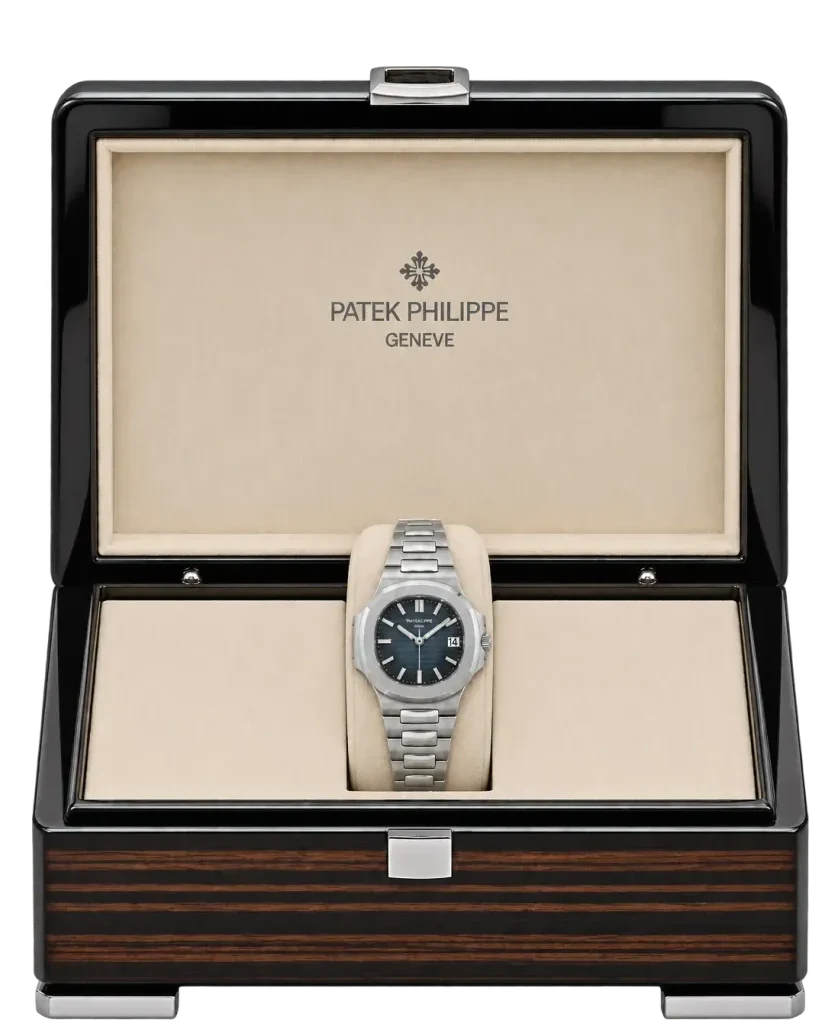
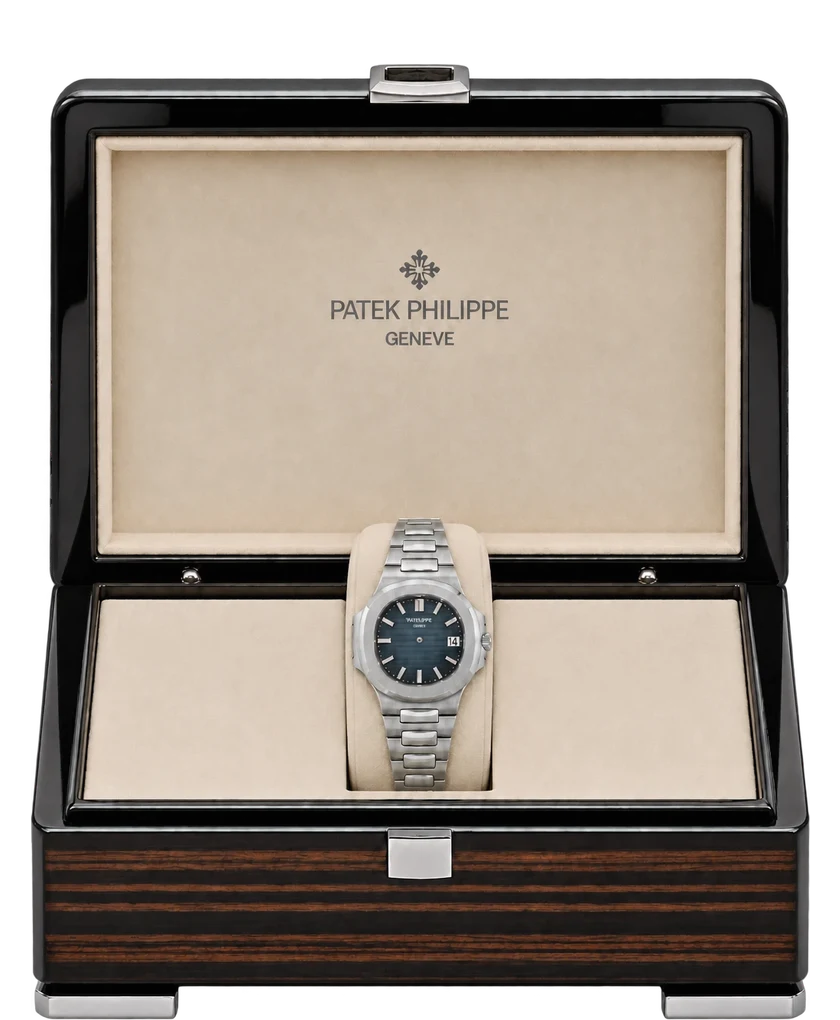
Vetrina: il Patek Nautilus con le lancette che segnano l'ora
Foto del cofanetto senza lancette (sfondo pulito con la sagoma dell'originale),
alla stessa scala di prima; lancette a bastone del Nautilus disegnate sopra.

Claude-Session: https://claude.ai/code/session_01NCWZ2EgAfWjoZpzfAus64N

diff --git a/src/components/LiveHands.tsx b/src/components/LiveHands.tsx
@@ -8,7 +8,7 @@ import { useEffect, useRef } from "react";
  * al centro, a mezzogiorno); altrimenti sono disegnate. I secondi scattano come il calibro vero
  * (8 volte al secondo per i Rolex a 28.800 alternanze).
  */
-export type HandStyle = "submariner";
+export type HandStyle = "submariner" | "nautilus";
 export type HandSprites = { ore: string; minuti: string };
 
 const STEEL = "url(#lh-steel)";
@@ -28,6 +28,22 @@ function SubmarinerDrawn({ hour, minute }: { hour: React.Ref<SVGGElement>; minut
       <g ref={minute} data-hand="m">
         <path d="M-0.04 0.06 L-0.045 -0.6 L0 -0.8 L0.045 -0.6 L0.04 0.06 Z" fill={STEEL} />
         <path d="M-0.022 -0.12 L-0.026 -0.6 L0 -0.72 L0.026 -0.6 L0.022 -0.12 Z" fill={LUME} />
+      </g>
+    </>
+  );
+}
+
+/** Patek Philippe Nautilus: ore e minuti a bastone in oro bianco con il luminescente */
+function NautilusDrawn({ hour, minute }: { hour: React.Ref<SVGGElement>; minute: React.Ref<SVGGElement> }) {
+  return (
+    <>
+      <g ref={hour} data-hand="h">
+        <path d="M-0.04 0.05 L-0.04 -0.53 L0 -0.585 L0.04 -0.53 L0.04 0.05 Z" fill={STEEL} />
+        <path d="M-0.02 -0.14 L-0.02 -0.52 L0 -0.55 L0.02 -0.52 L0.02 -0.14 Z" fill={LUME} />
+      </g>
+      <g ref={minute} data-hand="m">
+        <path d="M-0.034 0.05 L-0.034 -0.79 L0 -0.84 L0.034 -0.79 L0.034 0.05 Z" fill={STEEL} />
+        <path d="M-0.017 -0.16 L-0.017 -0.78 L0 -0.81 L0.017 -0.78 L0.017 -0.16 Z" fill={LUME} />
       </g>
     </>
   );
@@ -84,12 +100,21 @@ export default function LiveHands({ style, run, beats = 8, sprites }: { style: H
         </defs>
         <g style={{ filter: "drop-shadow(0.02px 0.04px 0.025px rgba(0,0,0,0.55))" }}>
           {!sprites && style === "submariner" && <SubmarinerDrawn hour={hour} minute={minute} />}
-          {/* secondi: sottile, con il punto luminoso e il contrappeso */}
-          <g ref={second} data-hand="s">
-            <rect x={-0.007} y={-0.9} width={0.014} height={1.12} fill={STEEL} />
-            <circle cy={-0.6} r={0.048} fill={LUME} stroke="#d9dde1" strokeWidth={0.016} />
-            <rect x={-0.016} y={0.12} width={0.032} height={0.12} rx={0.01} fill={STEEL} />
-          </g>
+          {!sprites && style === "nautilus" && <NautilusDrawn hour={hour} minute={minute} />}
+          {style === "nautilus" ? (
+            // secondi del Nautilus: asta sottile con la punta luminescente e il contrappeso corto
+            <g ref={second} data-hand="s">
+              <rect x={-0.006} y={-0.94} width={0.012} height={1.2} fill={STEEL} />
+              <rect x={-0.012} y={-0.9} width={0.024} height={0.14} rx={0.006} fill={LUME} />
+            </g>
+          ) : (
+            // secondi del Submariner: sottile, con il punto luminoso e il contrappeso
+            <g ref={second} data-hand="s">
+              <rect x={-0.007} y={-0.9} width={0.014} height={1.12} fill={STEEL} />
+              <circle cy={-0.6} r={0.048} fill={LUME} stroke="#d9dde1" strokeWidth={0.016} />
+              <rect x={-0.016} y={0.12} width={0.032} height={0.12} rx={0.01} fill={STEEL} />
+            </g>
+          )}
           {/* perno: con le lancette vere resta piccolo, così si vedono i loro anelli */}
           <circle r={sprites ? 0.034 : 0.075} fill={STEEL} stroke="rgba(0,0,0,0.4)" strokeWidth={0.008} />
           <circle r={sprites ? 0.013 : 0.028} fill="#6d7277" />

diff --git a/src/data/brands.ts b/src/data/brands.ts
@@ -8,7 +8,7 @@
 //   compare entrando nella sezione della marca, al posto dell'ingrandimento sfocato.
 export const brands = [
   { slug: "rolex", name: "Rolex", logo: "/marche/rolex.png", ratio: 1.805, accent: "#2f9a6a", vetrina: "/vetrina/rolex.webp", dial: { x: 50.06, y: 69.71, r: 5.63, hands: "submariner", beats: 8, sprites: { ore: "/vetrina/rolex-ore.webp", minuti: "/vetrina/rolex-minuti.webp" } }, vicino: { src: "/vetrina/rolex-vicino.webp", x: 50.1, y: 42.19, r: 27.93 }, text: "Simbolo assoluto dell'alta orologeria, ogni Rolex richiede una cura e una precisione particolari. Dal Submariner al Daytona, il mio servizio si estende a tutti i modelli della Corona." },
-  { slug: "patek-philippe", name: "Patek Philippe", logo: "/marche/patek-philippe.png", ratio: 1.835, accent: "#4f78b8", vetrina: "/vetrina/patek-philippe.webp", dial: null, vicino: null, text: "Meccaniche sofisticate e un design senza tempo: un Patek Philippe richiede attenzione al dettaglio e una conoscenza tecnica profonda. La mia esperienza con questa Maison garantisce al tuo orologio il trattamento che merita." },
+  { slug: "patek-philippe", name: "Patek Philippe", logo: "/marche/patek-philippe.png", ratio: 1.835, accent: "#4f78b8", vetrina: "/vetrina/patek-philippe.webp", dial: { x: 49.88, y: 62.69, r: 5.28, hands: "nautilus", beats: 8, sprites: null }, vicino: null, text: "Meccaniche sofisticate e un design senza tempo: un Patek Philippe richiede attenzione al dettaglio e una conoscenza tecnica profonda. La mia esperienza con questa Maison garantisce al tuo orologio il trattamento che merita." },
   { slug: "audemars-piguet", name: "Audemars Piguet", logo: "/marche/audemars-piguet.png", ratio: 4.715, accent: "#3456a0", vetrina: "", dial: null, vicino: null, text: "Audacia nel design e innovazione tecnica: le finiture di un Audemars Piguet richiedono un approccio specialistico. Curo ogni orologio della manifattura di Le Brassus nel pieno rispetto della sua unicità." },
   { slug: "cartier", name: "Cartier", logo: "/marche/cartier.png", ratio: 1.195, accent: "#e0b56a", vetrina: "", dial: null, vicino: null, text: "Eleganza intramontabile e uno stile inconfondibile. Lavoro su tutti i modelli Cartier, perché ogni pezzo conservi intatto il suo fascino." },
   { slug: "tudor", name: "Tudor", logo: "/marche/tudor.png", ratio: 1.795, accent: "#b83a48", vetrina: "", dial: null, vicino: null, text: "Sorella di Rolex, con un grande patrimonio e una qualità eccellente. Tratto ogni Tudor con la stessa attenzione e la stessa precisione che dedico a un Rolex." },
